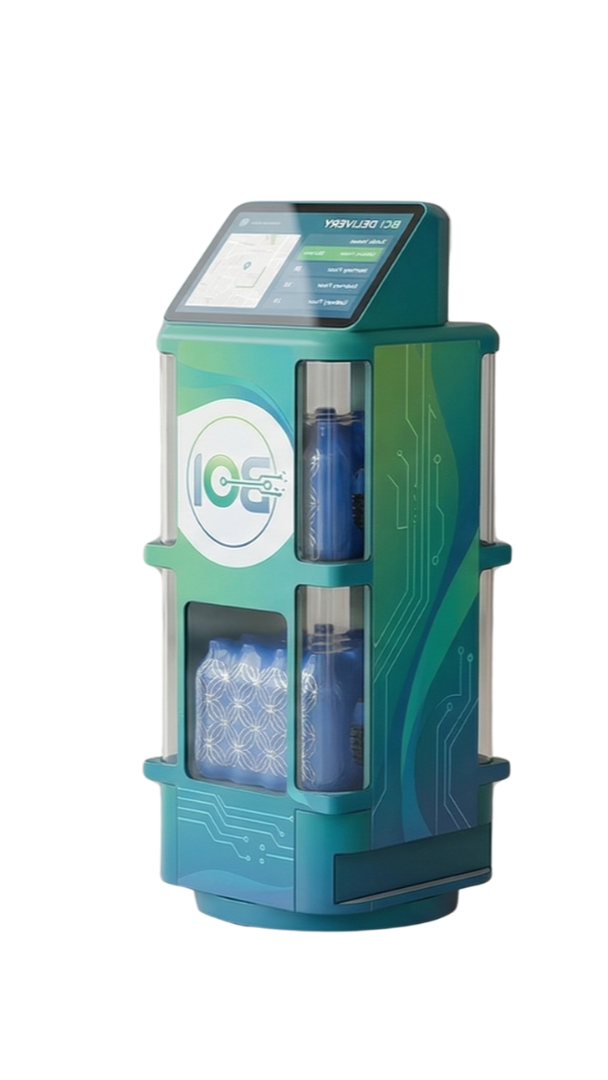
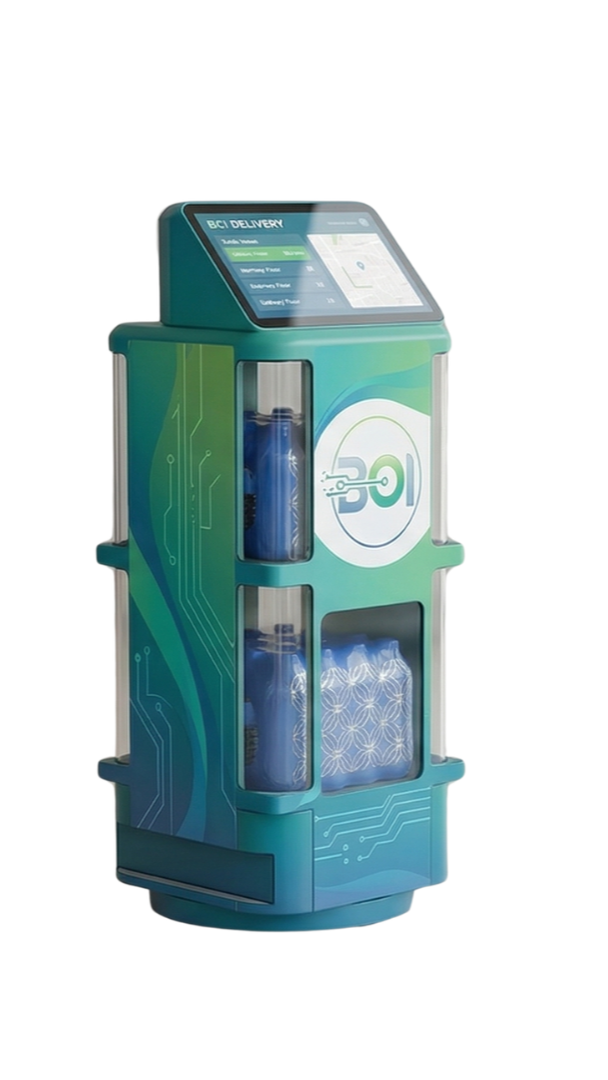
Add files via upload

diff --git a/index.html b/index.html
@@ -31,10 +31,13 @@
     </nav>
 
     <section id="hero" class="pt-32">
-        <div class="max-w-7xl mx-auto grid md:grid-cols-1 gap-10 items-center w-full">
+        <div class="max-w-7xl mx-auto grid md:grid-cols-2 gap-10 items-center w-full">
+            <div class="bg-white rounded-2xl flex items-center justify-center">
+                <img src="robots.png" class="w-[400px] h-auto mx-auto rounded-2xl block">
+            </div>
             <div class="space-y-6">
                 <span class="text-[#000000] text-sm font-bold tracking-widest">● NEXT-GEN DELIVERY</span>
-                <h1 class="text-8xl font-bold leading-tight">
+                <h1 class="text-7xl font-bold leading-tight">
                     <span style="color: #000000;">ใช้งาน</span> <span style="color: #48cfcb;">Boi</span><br>
                     <span class="text-black">ไม่ต้องลงไปรับเอง</span>
                 </h1>
@@ -43,9 +46,6 @@
                     <button class="bg-[#00fff7] text-black px-8 py-4 rounded-full text-xl font-bold">ค้นหาพื้นที่ให้บริการ</button>
                     <!-- <button class="border border-white/20 px-8 py-4 rounded-full font-bold">▶ ชมการทำงาน</button> -->
                 </div>
-            </div>
-            <div class="absolute bottom-0 left-[70%] transform -translate-x-1/2 w-fit z-40 pb-0">
-                <img src="robots2.png" class="block w-[500px] h-auto">
             </div>
         </div>
     </section>
@@ -101,10 +101,10 @@
                         </tr>
                     </thead>
                     <tbody class="divide-y divide-white/5">
-                        <tr><td class="p-4 text-gray-600">ร้านสะดวกซื้อ (7-11/GrabMart) - ไรเดอร์ขึ้นตึกไม่ได้</td><td class="p-4 text-red-500 font-bold">X</td><td class="p-4 text-red-500 font-bold">X</td><td class="p-4 text-red-500 font-bold">X</td></tr>
-                        <tr><td class="p-4 text-gray-600">เครื่องกรองน้ำ - ติดสัญญา ระยะยาว ติดตั้งยุ่งยาก</td><td class="p-4 text-red-500 font-bold">X</td><td class="p-4 text-red-500 font-bold">X</td><td class="p-4 text-red-500 font-bold">X</td></tr>
-                        <tr><td class="p-4 text-gray-600">ตู้กดน้ำหยอดเหรียญ/ตู้แพ็ค - ต้องแบกขึ้นห้องเอง</td><td class="p-4 text-red-500 font-bold">X</td><td class="p-4 text-red-500 font-bold">X</td><td class="p-4 text-red-500 font-bold">X</td></tr>
-                        <tr><td class="p-4 text-[#48cfcb] text-xl font-bold">Boi (บ๋อย)</td><td class="p-4 text-[#00ff0d] font-bold">✓</td><td class="p-4 text-[#00ff0d] font-bold">✓</td><td class="p-4 text-[#00ff0d] font-bold">✓</td></tr>
+                        <tr><td class="p-4 text-gray-600">ร้านสะดวกซื้อ (7-11/GrabMart) - ไรเดอร์ขึ้นตึกไม่ได้</td><td class="p-4 text-red-500 font-bold text-xl">X</td><td class="p-4 text-red-500 font-bold text-xl">X</td><td class="p-4 text-red-500 font-bold text-xl">X</td></tr>
+                        <tr><td class="p-4 text-gray-600">เครื่องกรองน้ำ - ติดสัญญา ระยะยาว ติดตั้งยุ่งยาก</td><td class="p-4 text-red-500 font-bold text-xl">X</td><td class="p-4 text-red-500 font-bold text-xl">X</td><td class="p-4 text-red-500 font-bold text-xl">X</td></tr>
+                        <tr><td class="p-4 text-gray-600">ตู้กดน้ำหยอดเหรียญ/ตู้แพ็ค - ต้องแบกขึ้นห้องเอง</td><td class="p-4 text-red-500 font-bold text-xl">X</td><td class="p-4 text-red-500 font-bold text-xl">X</td><td class="p-4 text-red-500 font-bold text-xl">X</td></tr>
+                        <tr><td class="p-4 text-[#48cfcb] text-xl font-bold">Boi (บ๋อย)</td><td class="p-4 text-[#00ff0d] font-bold text-xl">✓</td><td class="p-4 text-[#00ff0d] font-bold text-xl">✓</td><td class="p-4 text-[#00ff0d] font-bold text-xl">✓</td></tr>
                     </tbody>
                 </table>
             </div>
